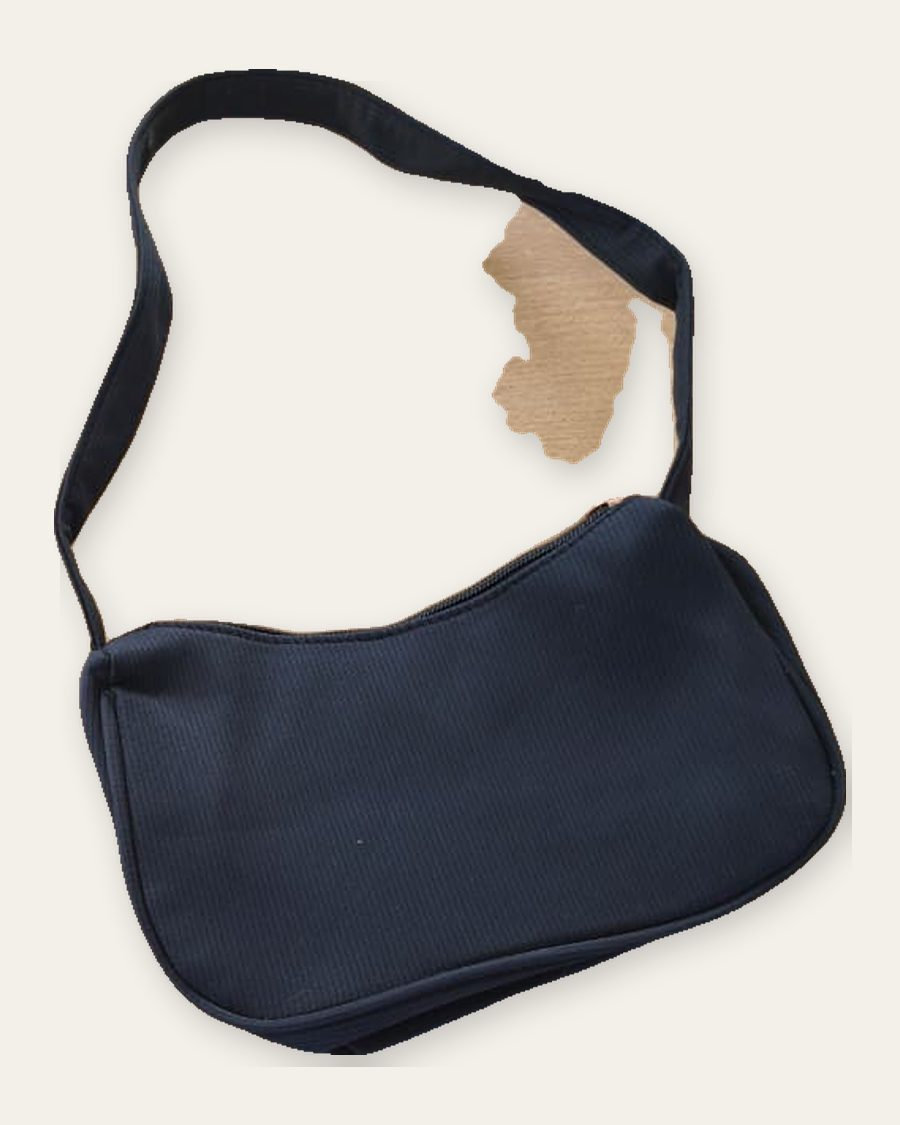
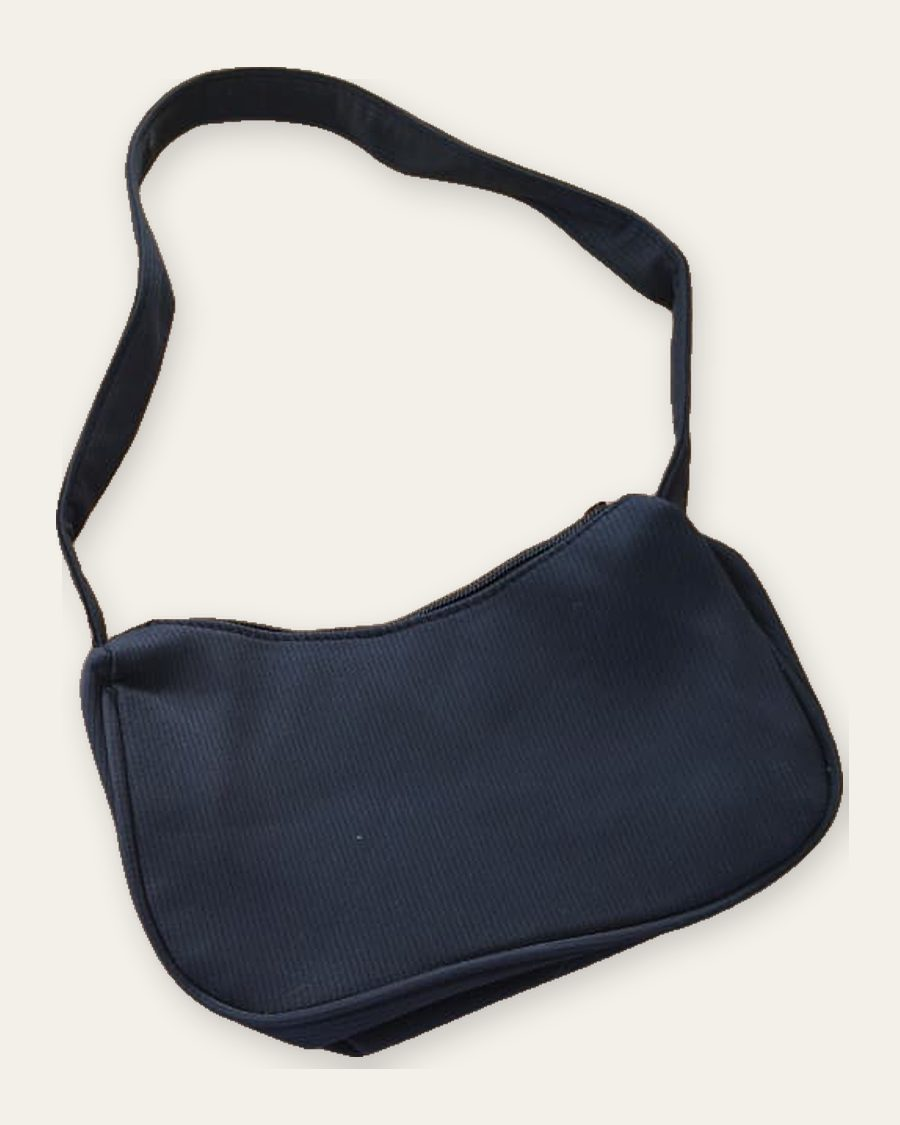
Mejorar recorte de fotos con fondo difícil
Reprocesa 22 fotos donde quedaban restos de cama, almohadas o sillón y
quita dos fotos que mostraban una mano y parte de un sillón.

Claude-Session: https://claude.ai/code/session_01CJB4qdqWGG5BmjLBtqRyZN

diff --git a/index.html b/index.html
@@ -759,7 +759,7 @@
         color: ['#d99a9a', '#bf7a7a'],
         productos: [
           { nombre: 'Vestido gris con capucha', precio: 38900, insignia: 'Nuevo',
-            imagenes: ['img/vestidos/vestido-gris-con-capucha-1.jpg', 'img/vestidos/vestido-gris-con-capucha-2.jpg'] },
+            imagenes: ['img/vestidos/vestido-gris-con-capucha-1.jpg'] },
           { nombre: 'Vestido leopardo', precio: 36900, insignia: 'Top',
             imagenes: ['img/vestidos/vestido-leopardo-1.jpg'] },
           { nombre: 'Vestido negro fruncido', precio: 33900,
@@ -781,7 +781,7 @@
           { nombre: 'Corpiño con push-up', precio: 16900, insignia: 'Nuevo',
             imagenes: ['img/ropa-interior/corpino-con-push-up-1.jpg'] },
           { nombre: 'Body moldeador', precio: 19900,
-            imagenes: ['img/ropa-interior/body-moldeador-1.jpg', 'img/ropa-interior/body-moldeador-2.jpg'] },
+            imagenes: ['img/ropa-interior/body-moldeador-1.jpg'] },
           { nombre: 'Malla enteriza floral', precio: 26900,
             imagenes: ['img/ropa-interior/malla-enteriza-floral-1.jpg'] }
         ]
